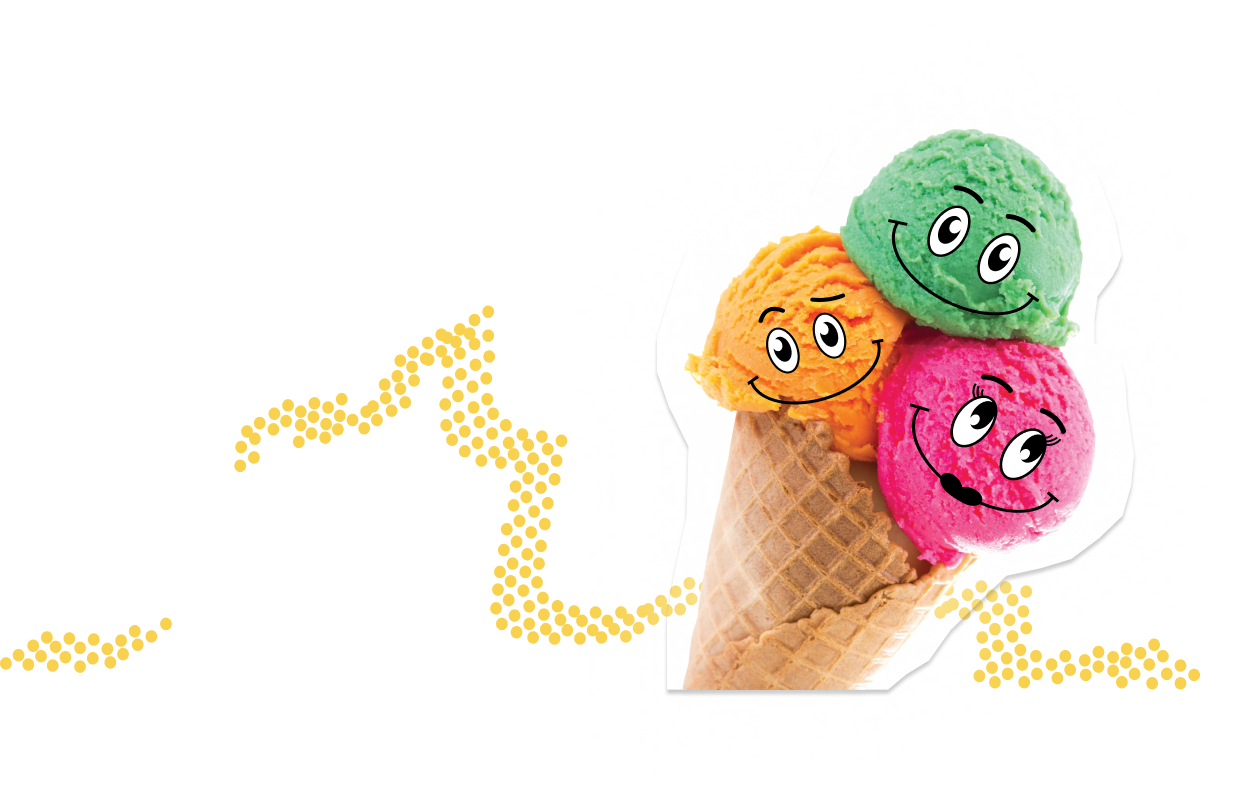
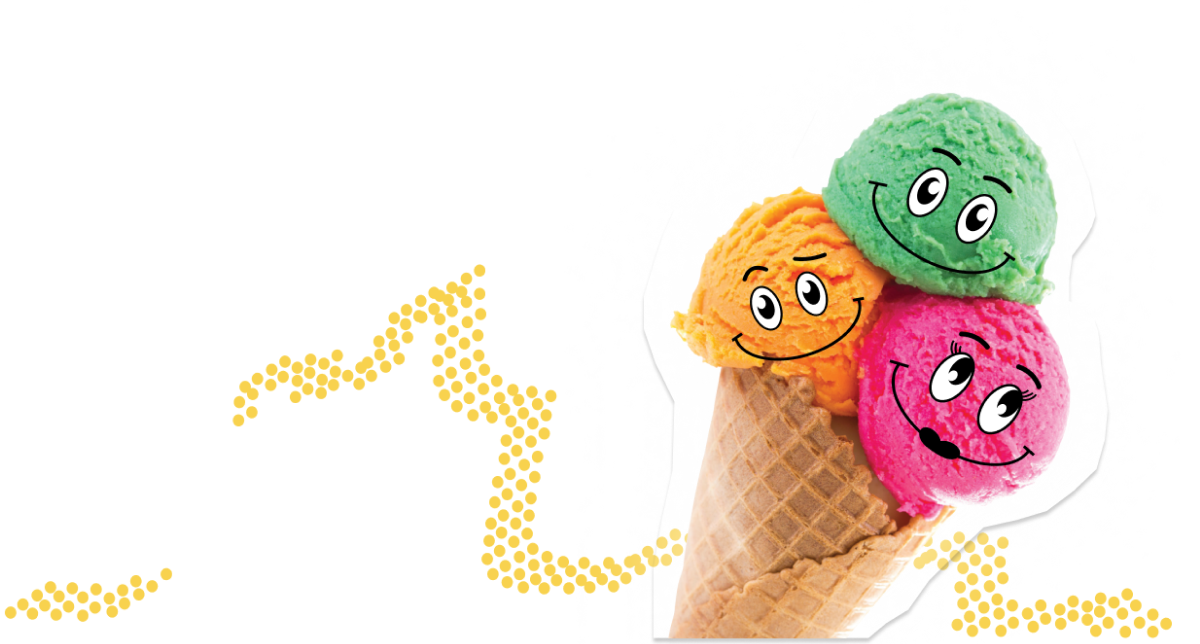
add fix

Changed region(s): [[0.185, 0.1242, 0.9867, 1.0], [0.0, 0.7764, 0.1542, 0.8696], [0.0, 0.8696, 0.1542, 0.9627]]

diff --git a/src/sass/_heroheader.scss b/src/sass/_heroheader.scss
@@ -1,21 +1,61 @@
 .page-header {
   background-color: var(--background-color);
+  background-color: var(--background-color);
+  background-image: url('../images/mobile/mobile-hero@1x.png');
+  background-repeat: no-repeat;
+  background-size: contain;
+  background-position: bottom;
+
+  @media (min-device-pixel-ratio: 2),
+    (-webkit-min-device-pixel-ratio: 2),
+    (min-resolution: 192dpi),
+    (min-resolution: 2dppx) {
+    background-image: url('../images/mobile/mobile-hero@2x.png');
+  }
+
+  @media screen and (min-width: 768px) {
+    background-image: url('../images/tablet/tablet-hero@1x.png');
+
+    @media (min-device-pixel-ratio: 2),
+      (-webkit-min-device-pixel-ratio: 2),
+      (min-resolution: 192dpi),
+      (min-resolution: 2dppx) {
+      background-image: url('../images/tablet/tablet-hero@2x.png');
+    }
+  }
+
+  @media screen and (min-width: 1200px) {
+    background-image: url('../images/desktop/desctop-hero@1x.png');
+
+    @media (min-device-pixel-ratio: 2),
+      (-webkit-min-device-pixel-ratio: 2),
+      (min-resolution: 192dpi),
+      (min-resolution: 2dppx) {
+      background-image: url('../images/desktop/desctop-hero@1x.png');
+    }
+  }
 }
 
 .page-header_container {
-  // background-color: var(--background-color);
-  // border: 2px solid red;
-  position: relative;
+  padding-top: 12px;
   padding-bottom: 239px;
+  // border: 2px solid red;
+  // position: relative;
+  // padding-bottom: 239px;
 }
+
 .page-header_wrapper {
   display: flex;
   align-items: center;
   justify-content: space-between;
   position: relative;
-  padding-top: 15px;
-  margin-bottom: 62px;
+  // padding-top: 15px;
+  // margin-bottom: 62px;
 }
+.hero-container {
+  margin-top: 61px;
+}
+
 .open-menu-btn {
   background-color: transparent;
   border: none;
@@ -103,18 +143,18 @@
     color: var(--button-disable-color);
   }
 }
-.hero-dots {
-  position: absolute;
-  left: 1px;
-  bottom: 1px;
-  z-index: 1;
-  width: 100%;
-  height: 50px;
-  background-image: url(../images/mobile/mobile-dots@1x.png);
-  background-repeat: no-repeat;
-  background-size: contain;
-  background-position: center;
-}
+// .hero-dots {
+//   position: absolute;
+//   left: 1px;
+//   bottom: 1px;
+//   z-index: 1;
+//   width: 100%;
+//   height: 50px;
+// background-image: url(../images/mobile/mobile-dots@1x.png);
+//   background-repeat: no-repeat;
+//   background-size: contain;
+//   background-position: center;
+// }
 @media screen and (max-width: 479px) {
   .header-nav {
     display: none;
@@ -159,19 +199,19 @@
     height: 219px;
   }
 }
-@media screen and (min-device-pixel-ratio: 2) and (max-width: 767px),
-  screen and (min-resolution: 192dpi) and (max-width: 767px),
-  screen and (min-resolution: 2dppx) and (max-width: 767px) {
-  .hero-dots {
-    background-image: url(../images/mobile/mobile-dots@2x.png);
-  }
-}
+// @media screen and (min-device-pixel-ratio: 2) and (max-width: 767px),
+//   screen and (min-resolution: 192dpi) and (max-width: 767px),
+//   screen and (min-resolution: 2dppx) and (max-width: 767px) {
+// .hero-dots {
+// background-image: url(../images/mobile/mobile-dots@2x.png);
+// }
+// }
 @media screen and (min-width: 768px) {
   .page-header_container {
     // padding-left: 32px;
     // padding-right: 32px;
-    padding-bottom: 193px;
-    position: relative;
+    padding-top: 20px;
+    padding-bottom: 13px;
   }
   .header-nav {
     display: none;
@@ -228,9 +268,9 @@
     transform: rotate(-45deg);
     -webkit-transform: rotate(-45deg);
   }
-  .page-header_wrapper {
-    margin-bottom: 38px;
-  }
+  // .page-header_wrapper {
+  // margin-bottom: 38px;
+  // }
   .hero-box {
     width: 181px;
   }
@@ -249,6 +289,8 @@
     display: flex;
   }
   .hero-container {
+    margin-top: 40px;
+    margin-bottom: 28px;
     display: flex;
     justify-content: space-between;
   }
@@ -281,11 +323,11 @@
   .hero-pic-box {
     display: flex;
     align-items: center;
-    z-index: 2;
+    // z-index: 2;
     gap: 33px;
-    position: absolute;
-    left: 32px;
-    bottom: 14px;
+    // position: absolute;
+    // left: 32px;
+    // bottom: 14px;
   }
   .hero-pic-box__desc {
     max-width: 200px;
@@ -312,22 +354,29 @@
     z-index: 1;
     width: 100%;
     height: 67px;
-    background-image: url(../images/tablet/tablet-dots@1x.png);
+    // background-image: url(../images/tablet/tablet-dots@1x.png);
   }
 }
 @media screen and (min-device-pixel-ratio: 2) and (min-width: 768px),
   screen and (min-resolution: 192dpi) and (min-width: 768px),
   screen and (min-resolution: 2dppx) and (min-width: 768px) {
-  .hero-dots {
-    background-image: url(../images/tablet/tablet-dots@2x.png);
-  }
+  // .hero-dots {
+  // background-image: url(../images/tablet/tablet-dots@2x.png);
+  // }
 }
 @media screen and (min-width: 1200px) {
   .page-header_container {
     // padding-left: 16px;
     // padding-right: 16px;
-    padding-bottom: 332px;
-    position: relative;
+    // padding-bottom: 332px;
+    // position: relative;
+    padding-top: 8px;
+    padding-bottom: 65px;
+  }
+
+  .hero-container {
+    margin-top: 45px;
+    margin-bottom: 42px;
   }
   .header-nav {
     display: flex;
@@ -353,12 +402,12 @@
       color: var(--accent-color);
     }
   }
-  .page-header_wrapper {
-    margin-bottom: 48px;
-  }
+  // .page-header_wrapper {
+  // margin-bottom: 48px;
+  // }
   .hero-box {
     width: 367px;
-    margin-bottom: 28px;
+    // margin-bottom: 28px;
   }
   .hero-box__title {
     @include herotitle;
@@ -375,6 +424,8 @@
   }
   .hero-info {
     display: flex;
+    animation-duration: 3s;
+    animation-name: bounce;
   }
   .hero-info__list {
     display: flex;
@@ -441,11 +492,11 @@
   .hero-pic-box {
     display: flex;
     align-items: center;
-    position: absolute;
-    z-index: 2;
+    // position: absolute;
+    // z-index: 2;
     gap: 14px;
-    left: 17px;
-    bottom: 65px;
+    // left: 17px;
+    // bottom: 65px;
   }
   .hero-pic-box__desc {
     max-width: 200px;
@@ -474,15 +525,15 @@
     z-index: 1;
     width: 100%;
     height: 384px;
-    background-image: url(../images/desktop/desctop-dots@1x.png);
+    // background-image: url(../images/desktop/desctop-dots@1x.png);
   }
 }
 @media screen and (min-device-pixel-ratio: 2) and (min-width: 1200px),
   screen and (min-resolution: 192dpi) and (min-width: 1200px),
   screen and (min-resolution: 2dppx) and (min-width: 1200px) {
-  .hero-dots {
-    background-image: url(../images/desktop/desctop-dots@2x.png);
-  }
+  // .hero-dots {
+  // background-image: url(../images/desktop/desctop-dots@2x.png);
+  // }
 }
 // --------------------------------------- ANIMATION ---------------------------------------
 .logo {

diff --git a/src/partials/heroheader.html b/src/partials/heroheader.html
@@ -4,21 +4,14 @@
       <nav class="page-header__navigation">
         <a class="logo" href="./index.html">
           <picture class="logo__pictures">
-            <source
-              srcset="
+            <source srcset="
                 ./images/desktop/desktop-logo@1x.png 1x,
                 ./images/desktop/desktop-logo@2x.png 2x
-              "
-              media="(min-width: 1200px)"
-            />
-            <source
-              srcset="./images/tablet/tablet-logo@1x.png 1x, ./images/tablet/tablet-logo@2x.png 2x"
-              media="(min-width: 768px)"
-            />
-            <source
-              srcset="./images/mobile/mobile-logo@1x.png 1x, ./images/mobile/mobile-logo@2x.png 2x"
-              media="(max-width: 767px)"
-            />
+              " media="(min-width: 1200px)" />
+            <source srcset="./images/tablet/tablet-logo@1x.png 1x, ./images/tablet/tablet-logo@2x.png 2x"
+              media="(min-width: 768px)" />
+            <source srcset="./images/mobile/mobile-logo@1x.png 1x, ./images/mobile/mobile-logo@2x.png 2x"
+              media="(max-width: 767px)" />
 
             <img aria-label="logo" src="./images/mobile/mobile-logo@1x.png" />
           </picture>
@@ -56,9 +49,7 @@
             <a href="#products" class="navigation-pages__link">Products</a>
           </li>
           <li class="navigation-pages__item">
-            <a href="#about" class="navigation-pages__link navigation-pages__link_decor"
-              >How it's made?</a
-            >
+            <a href="#about" class="navigation-pages__link navigation-pages__link_decor">How it's made?</a>
           </li>
         </ul>
       </div>
@@ -77,25 +68,16 @@
     </div>
     <div class="hero-pic-box">
       <picture class="hero-pic-box__pictures">
-        <source
-          srcset="
+        <source srcset="
             ./images/desktop/desctop-ice-cream-on-plate@1x.png 1x,
             ./images/desktop/desctop-ice-cream-on-plate@2x.png 2x
-          "
-          media="(min-width: 1200px)"
-        />
-        <source
-          srcset="
+          " media="(min-width: 1200px)" />
+        <source srcset="
             ./images/tablet/tablet-ice-cream-on-plate@1x.png 1x,
             ./images/tablet/tablet-ice-cream-on-plate@2x.png 2x
-          "
-          media="(min-width: 768px)"
-        />
+          " media="(min-width: 768px)" />
 
-        <img
-          aria-label="ice-cream-on-plate"
-          src="./images/desktop/desctop-ice-cream-on-plate@1x.png"
-        />
+        <img aria-label="ice-cream-on-plate" src="./images/desktop/desctop-ice-cream-on-plate@1x.png" />
       </picture>
       <div class="hero-pic-box__text">
         <p class="hero-pic-box__desc">
@@ -107,8 +89,8 @@
         </svg>
       </div>
     </div>
-    <div class="hero-pic-aside">
-      <picture class="hero-pic-aside__ice-cream">
+    <!-- <div class="hero-pic-aside"> -->
+    <!-- <picture class="hero-pic-aside__ice-cream">
         <source
           srcset="
             ./images/desktop/desctop-ice-cream-in-horn@1x.png 1x,
@@ -131,10 +113,10 @@
           media="(min-width: 480px)"
         />
         <img aria-label="ice-cream-in-horn" src="./images/mobile/mobile-ice-cream-in-horn@1x.png" />
-      </picture>
-    </div>
-    <div class="hero-dots">
-      <!-- <picture class="hero-dots_pic">
+      </picture> -->
+    <!-- </div> -->
+    <!-- <div class="hero-dots"> -->
+    <!-- <picture class="hero-dots_pic">
                 <source srcset="./images/desktop/desctop-dots@1x.png 1x,
                                 ./images/desktop/desctop-dots@2x.png 2x"
                                 media="(min-width: 1200px)"/>
@@ -146,6 +128,6 @@
                                 media="(max-width: 767px)"/>
                 <img aria-label="dots" src="./images/mobile/mobile-dots@1x.png"/>
             </picture> -->
-    </div>
+    <!-- </div> -->
   </div>
 </header>

diff --git a/src/sass/_advantages.scss b/src/sass/_advantages.scss
@@ -83,6 +83,7 @@
   margin-left: auto;
   margin-right: auto;
   margin-bottom: 16px;
+  animation: spin 5s linear infinite;
 }
 
 .advantages-list__item--two::before {
@@ -94,6 +95,7 @@
   margin-bottom: 16px;
   margin-left: auto;
   margin-right: auto;
+  animation: spin 5s linear infinite;
 }
 
 .advantages-list__item--three::before {
@@ -105,6 +107,7 @@
   margin-bottom: 16px;
   margin-left: auto;
   margin-right: auto;
+  animation: spin 5s linear infinite;
 }
 
 @media screen and (min-width: 480px) {

diff --git a/src/sass/_about.scss b/src/sass/_about.scss
@@ -158,6 +158,8 @@
 .ice-list {
   width: 220px;
   text-align: center;
+  animation-name: slidein;
+  animation-duration: 3s;
 
   @media screen and (min-width: 768px) {
     width: 334px;
